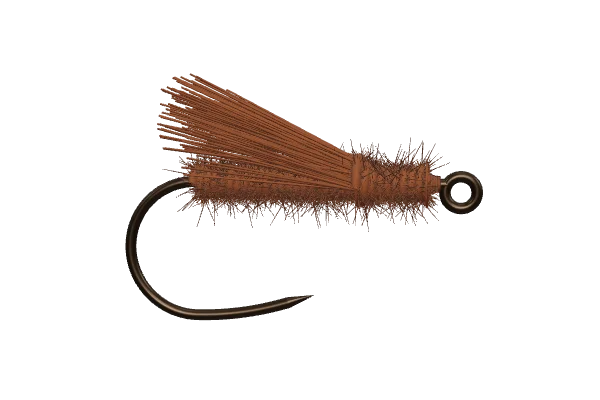
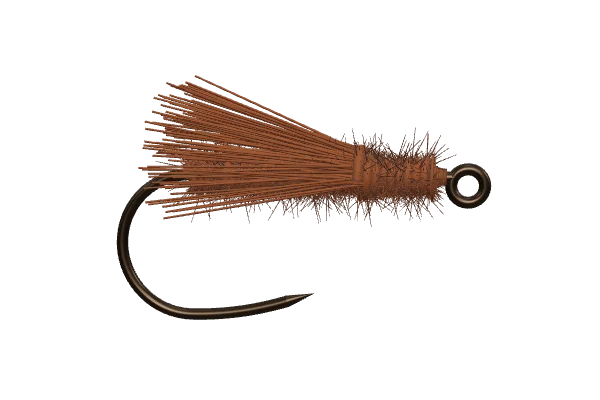
Catalog: Muddler Minnow, Marabou Muddler; spun collars flare all round, denser marabou

Changed region(s): [[0.18, 0.18, 0.84, 0.81]]

diff --git a/src/render/pieces.ts b/src/render/pieces.ts
@@ -313,7 +313,7 @@ const BUNDLE = {
   // A biot is a stiff, broad barb: wide at the base, tapering to a point.
   biot: { radius: 0.028, tip: 0.85, tipShade: 0.85, spread: 0.02, flare: 0, sideFlare: 0.6, lengthJitter: 0 },
   // Marabou is a dense, soft plume: many fine fibres, tapering out.
-  marabou: { radius: 0.005, tip: 0.2, tipShade: 0.9, spread: 0.3, flare: 0.06, sideFlare: 0.25, lengthJitter: 0.45 },
+  marabou: { radius: 0.008, tip: 0.2, tipShade: 0.85, spread: 0.3, flare: 0.06, sideFlare: 0.25, lengthJitter: 0.45 },
   // CDC is soft and fluffy: many fine, uneven barbs, each with tiny barbules (added below).
   cdc: { radius: 0.003, tip: 0.3, tipShade: 0.85, spread: 0.5, flare: 0.12, sideFlare: 0.5, lengthJitter: 0.45 },
   flash: { radius: 0.0025, tip: 1, tipShade: 1, spread: 0.2, flare: 0.05, sideFlare: 0.3, lengthJitter: 0.2 },
@@ -370,6 +370,14 @@ function bundleView(piece: BundlePiece, surfaces: Surfaces, space: ShankSpace): 
         .clone()
         .multiplyScalar(Math.cos(piece.angle))
         .addScaledVector(X_AXIS, -Math.sin(piece.angle) * (0.6 + 0.8 * rand()))
+        .normalize();
+    } else if (piece.spread > Math.PI / 2) {
+      // A bunch spun most of the way round (a muddler collar) flares away from the body
+      // on every side, not just upwards.
+      dir = new THREE.Vector3(forward ? 1 : -1, 0, 0)
+        .multiplyScalar(Math.cos(piece.angle))
+        .addScaledVector(outward, Math.sin(piece.angle) * (0.7 + 0.6 * rand()))
+        .add(new THREE.Vector3(0, (rand() - 0.5) * spec.spread, (rand() - 0.5) * spec.spread))
         .normalize();
     } else {
       // Fibres splay away from the body a little, and fibres at the sides of the bunch

diff --git a/src/tying/simulate.ts b/src/tying/simulate.ts
@@ -290,7 +290,7 @@ function materialLook(recipe: Recipe, m: Material): MaterialLook {
     case "biot":
       return { ...base, strandRadius: 0.012, count: m.count ?? 2, tieInThickness: 0.012, layerThickness: () => 0.02 };
     case "marabou":
-      return { ...base, strandRadius: 0.08, count: 320, tieInThickness: 0.03, layerThickness: () => 0.03 };
+      return { ...base, strandRadius: 0.08, count: 560, tieInThickness: 0.03, layerThickness: () => 0.03 };
     case "cdc":
       // Wound, a CDC feather's barbs are short near the tip and long near the butt.
       return {
@@ -478,8 +478,9 @@ export function simulate(recipe: Recipe): Build {
         if (step.collar) {
           pieces.push({
             type: "bundle", id: nextId++, material: step.material, look: l.look, color: l.color, window: [0, 0.3],
-            x: from, radius, length: step.collar, angle: deg(18), direction: "back", side: "top",
-            spread: deg(110), bundleRadius: l.strandRadius, count: 140,
+            // The first clump spins all the way round, so its tips flare back on every side.
+            x: from, radius, length: step.collar, angle: deg(22), direction: "back", side: "top",
+            spread: deg(170), bundleRadius: l.strandRadius, count: 240,
           });
         }
         profile = profile.withLayer(from, to, 0.08);
